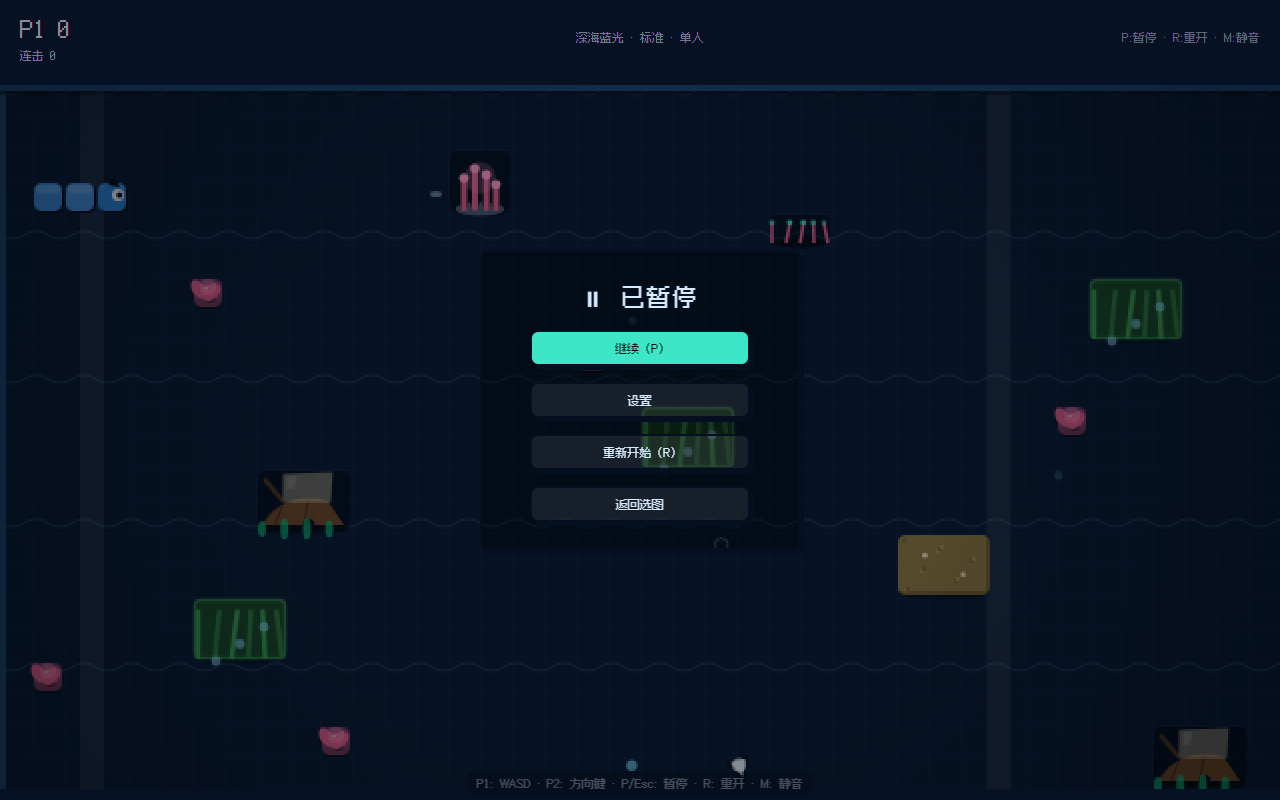
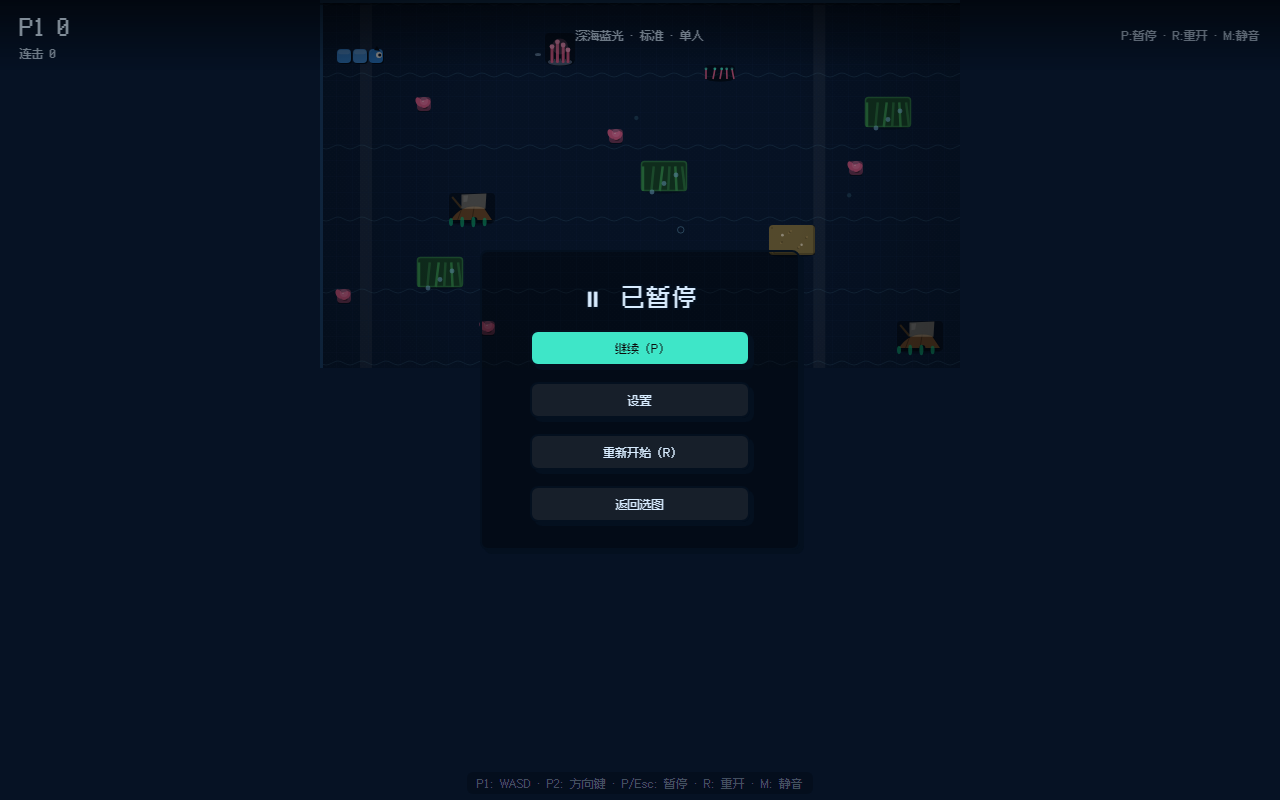
feat: 覆盖式全屏（视口40x23+coverScale整数倍铺满裁剪+HUD悬浮+容器overflow裁剪）

diff --git a/src/render/renderer.ts b/src/render/renderer.ts
@@ -4,7 +4,7 @@
 // 纯绘制，不依赖 React；状态经 EngineView 传入
 // ============================================================
 import type { Cell, Direction, SnakeState, Theme } from "../game/core/types"
-import { CELL, VIEW_PX_H, VIEW_PX_W, VIEW_H, VIEW_W, calcCoopView, clampCam, fitScale, type ViewSize } from "./camera"
+import { CELL, VIEW_PX_H, VIEW_PX_W, VIEW_H, VIEW_W, calcCoopView, clampCam, coverScale, type ViewSize } from "./camera"
 import { DIFFICULTY_PRESETS } from "../game/core/constants"
 import { obstacleCell } from "../game/core/obstacles"
 import { drawAo, drawObstacleShape, renderStaticLayer } from "./staticLayer"
@@ -54,11 +54,11 @@ export class Renderer {
     this.ctx = canvas.getContext("2d")!
   }
 
-  /** 画布尺寸适配（固定视野 24×18 格，docs/11；动态缩放时每帧自适应） */
+  /** 画布尺寸适配（覆盖式满屏，docs/13：全屏铺满） */
   fit(containerW: number, containerH: number): { scale: number; w: number; h: number } {
     this.lastContainerW = containerW
     this.lastContainerH = containerH
-    const scale = fitScale(containerW, containerH, VIEW_PX_W, VIEW_PX_H)
+    const scale = coverScale(containerW, containerH, VIEW_PX_W, VIEW_PX_H)
     this.canvas.width = VIEW_PX_W
     this.canvas.height = VIEW_PX_H
     this.canvas.style.width = `${VIEW_PX_W * scale}px`
@@ -107,7 +107,7 @@ export class Renderer {
     const pxW = this.viewW * CELL
     const pxH = this.viewH * CELL
     if (this.canvas.width !== pxW || this.canvas.height !== pxH) {
-      const scale = fitScale(this.lastContainerW, this.lastContainerH, pxW, pxH)
+      const scale = coverScale(this.lastContainerW, this.lastContainerH, pxW, pxH)
       this.canvas.width = pxW
       this.canvas.height = pxH
       this.canvas.style.width = `${pxW * scale}px`

diff --git a/src/render/camera.ts b/src/render/camera.ts
@@ -5,9 +5,9 @@
 
 export const CELL = 16 // 格子像素（内部低分辨率；16px 与星露谷 tile 同规格，细节容量最大）
 
-/** 视野尺寸（格）——默认 40×22 宽屏矩形（docs/13：scale2 占满屏幕，窗口恒定） */
+/** 视野尺寸（格）——默认 40×23 宽屏矩形（docs/13：2560×1440 下 scale4 满屏裁剪） */
 export const VIEW_W = 40
-export const VIEW_H = 22
+export const VIEW_H = 23
 export const VIEW_PX_W = VIEW_W * CELL
 export const VIEW_PX_H = VIEW_H * CELL
 
@@ -21,6 +21,30 @@ export function fitScale(
   if (containerW <= 0 || containerH <= 0) return 1
   const s = Math.floor(Math.min(containerW / internalW, containerH / internalH))
   return Math.max(1, s)
+}
+
+/**
+ * 覆盖式满屏缩放（docs/13 全屏铺满）：
+ * 优先取"铺满容器的最小整数倍"（超出部分 ≤15% 时裁剪铺满）；
+ * 超出过多则退回最大不超整数倍（居中留边）。
+ * 2560×1440：视口 40×23 → scale 4 → 2560×1472，裁 32px 满屏锐利。
+ */
+export function coverScale(
+  containerW: number,
+  containerH: number,
+  internalW: number,
+  internalH: number,
+): number {
+  if (containerW <= 0 || containerH <= 0) return 1
+  const fit = Math.min(containerW / internalW, containerH / internalH)
+  const floor = Math.max(1, Math.floor(fit))
+  const ceil = Math.max(1, Math.ceil(fit))
+  if (ceil > floor) {
+    const overW = (internalW * ceil - containerW) / containerW
+    const overH = (internalH * ceil - containerH) / containerH
+    if (overW <= 0.15 && overH <= 0.15) return ceil
+  }
+  return floor
 }
 
 /** 画布内容居中偏移（整数像素，避免抖动） */

diff --git a/src/ui/theme.css b/src/ui/theme.css
@@ -177,21 +177,28 @@ button {
   to { opacity: 1; transform: translateY(0); }
 }
 
-/* 游戏区三区布局（docs/07 第 4 节） */
+/* 游戏区全屏布局（docs/13：画布铺满窗口，HUD 悬浮覆盖） */
 .game-layout {
+  position: relative;
   width: 100%;
   height: 100%;
-  display: grid;
-  grid-template-rows: auto 1fr auto;
+  overflow: hidden;
 }
 
 .game-hud {
+  position: absolute;
+  top: 0;
+  left: 0;
+  right: 0;
+  z-index: 3;
   display: grid;
   grid-template-columns: 1fr auto 1fr;
   align-items: center;
-  padding: 10px 20px;
+  padding: 8px 20px;
   gap: 12px;
   font-size: 12px;
+  background: linear-gradient(rgba(0, 0, 0, 0.55), rgba(0, 0, 0, 0));
+  pointer-events: none;
 }
 
 .game-hud .center { text-align: center; opacity: 0.85; }
@@ -208,10 +215,12 @@ button {
 }
 
 .game-canvas-wrap {
+  position: absolute;
+  inset: 0;
   display: flex;
   align-items: center;
   justify-content: center;
-  min-height: 0;
+  overflow: hidden; /* 覆盖式满屏：超出部分均匀裁剪（docs/13） */
 }
 
 /* 快捷键提示：悬浮在画布底部内侧（docs/13：释放整行高度给游戏画面） */

diff --git a/src/ui/App.tsx b/src/ui/App.tsx
@@ -63,14 +63,14 @@ export function App(): React.JSX.Element | null {
     if (screen === "playing" || screen === "gameover") {
       return (
         <div className="game-layout">
-          <HUD />
-          <div style={{ position: "relative", minHeight: 0 }}>
+          <div className="game-canvas-wrap">
             <GameCanvas />
             <ReviveBanner />
             <div className="game-hint">
               P1: WASD · P2: 方向键 · P/Esc: 暂停 · R: 重开 · M: 静音
             </div>
           </div>
+          <HUD />
           <PauseOverlay />
           <GameOverOverlay />
         </div>

diff --git a/src/ui/GameCanvas.tsx b/src/ui/GameCanvas.tsx
@@ -246,7 +246,7 @@ export function GameCanvas(): React.JSX.Element {
   void settings
 
   return (
-    <div className="game-canvas-wrap" ref={wrapRef} style={{ position: "relative", width: "100%", height: "100%" }}>
+    <div className="game-canvas-wrap" ref={wrapRef}>
       <canvas ref={canvasRef} />
     </div>
   )
